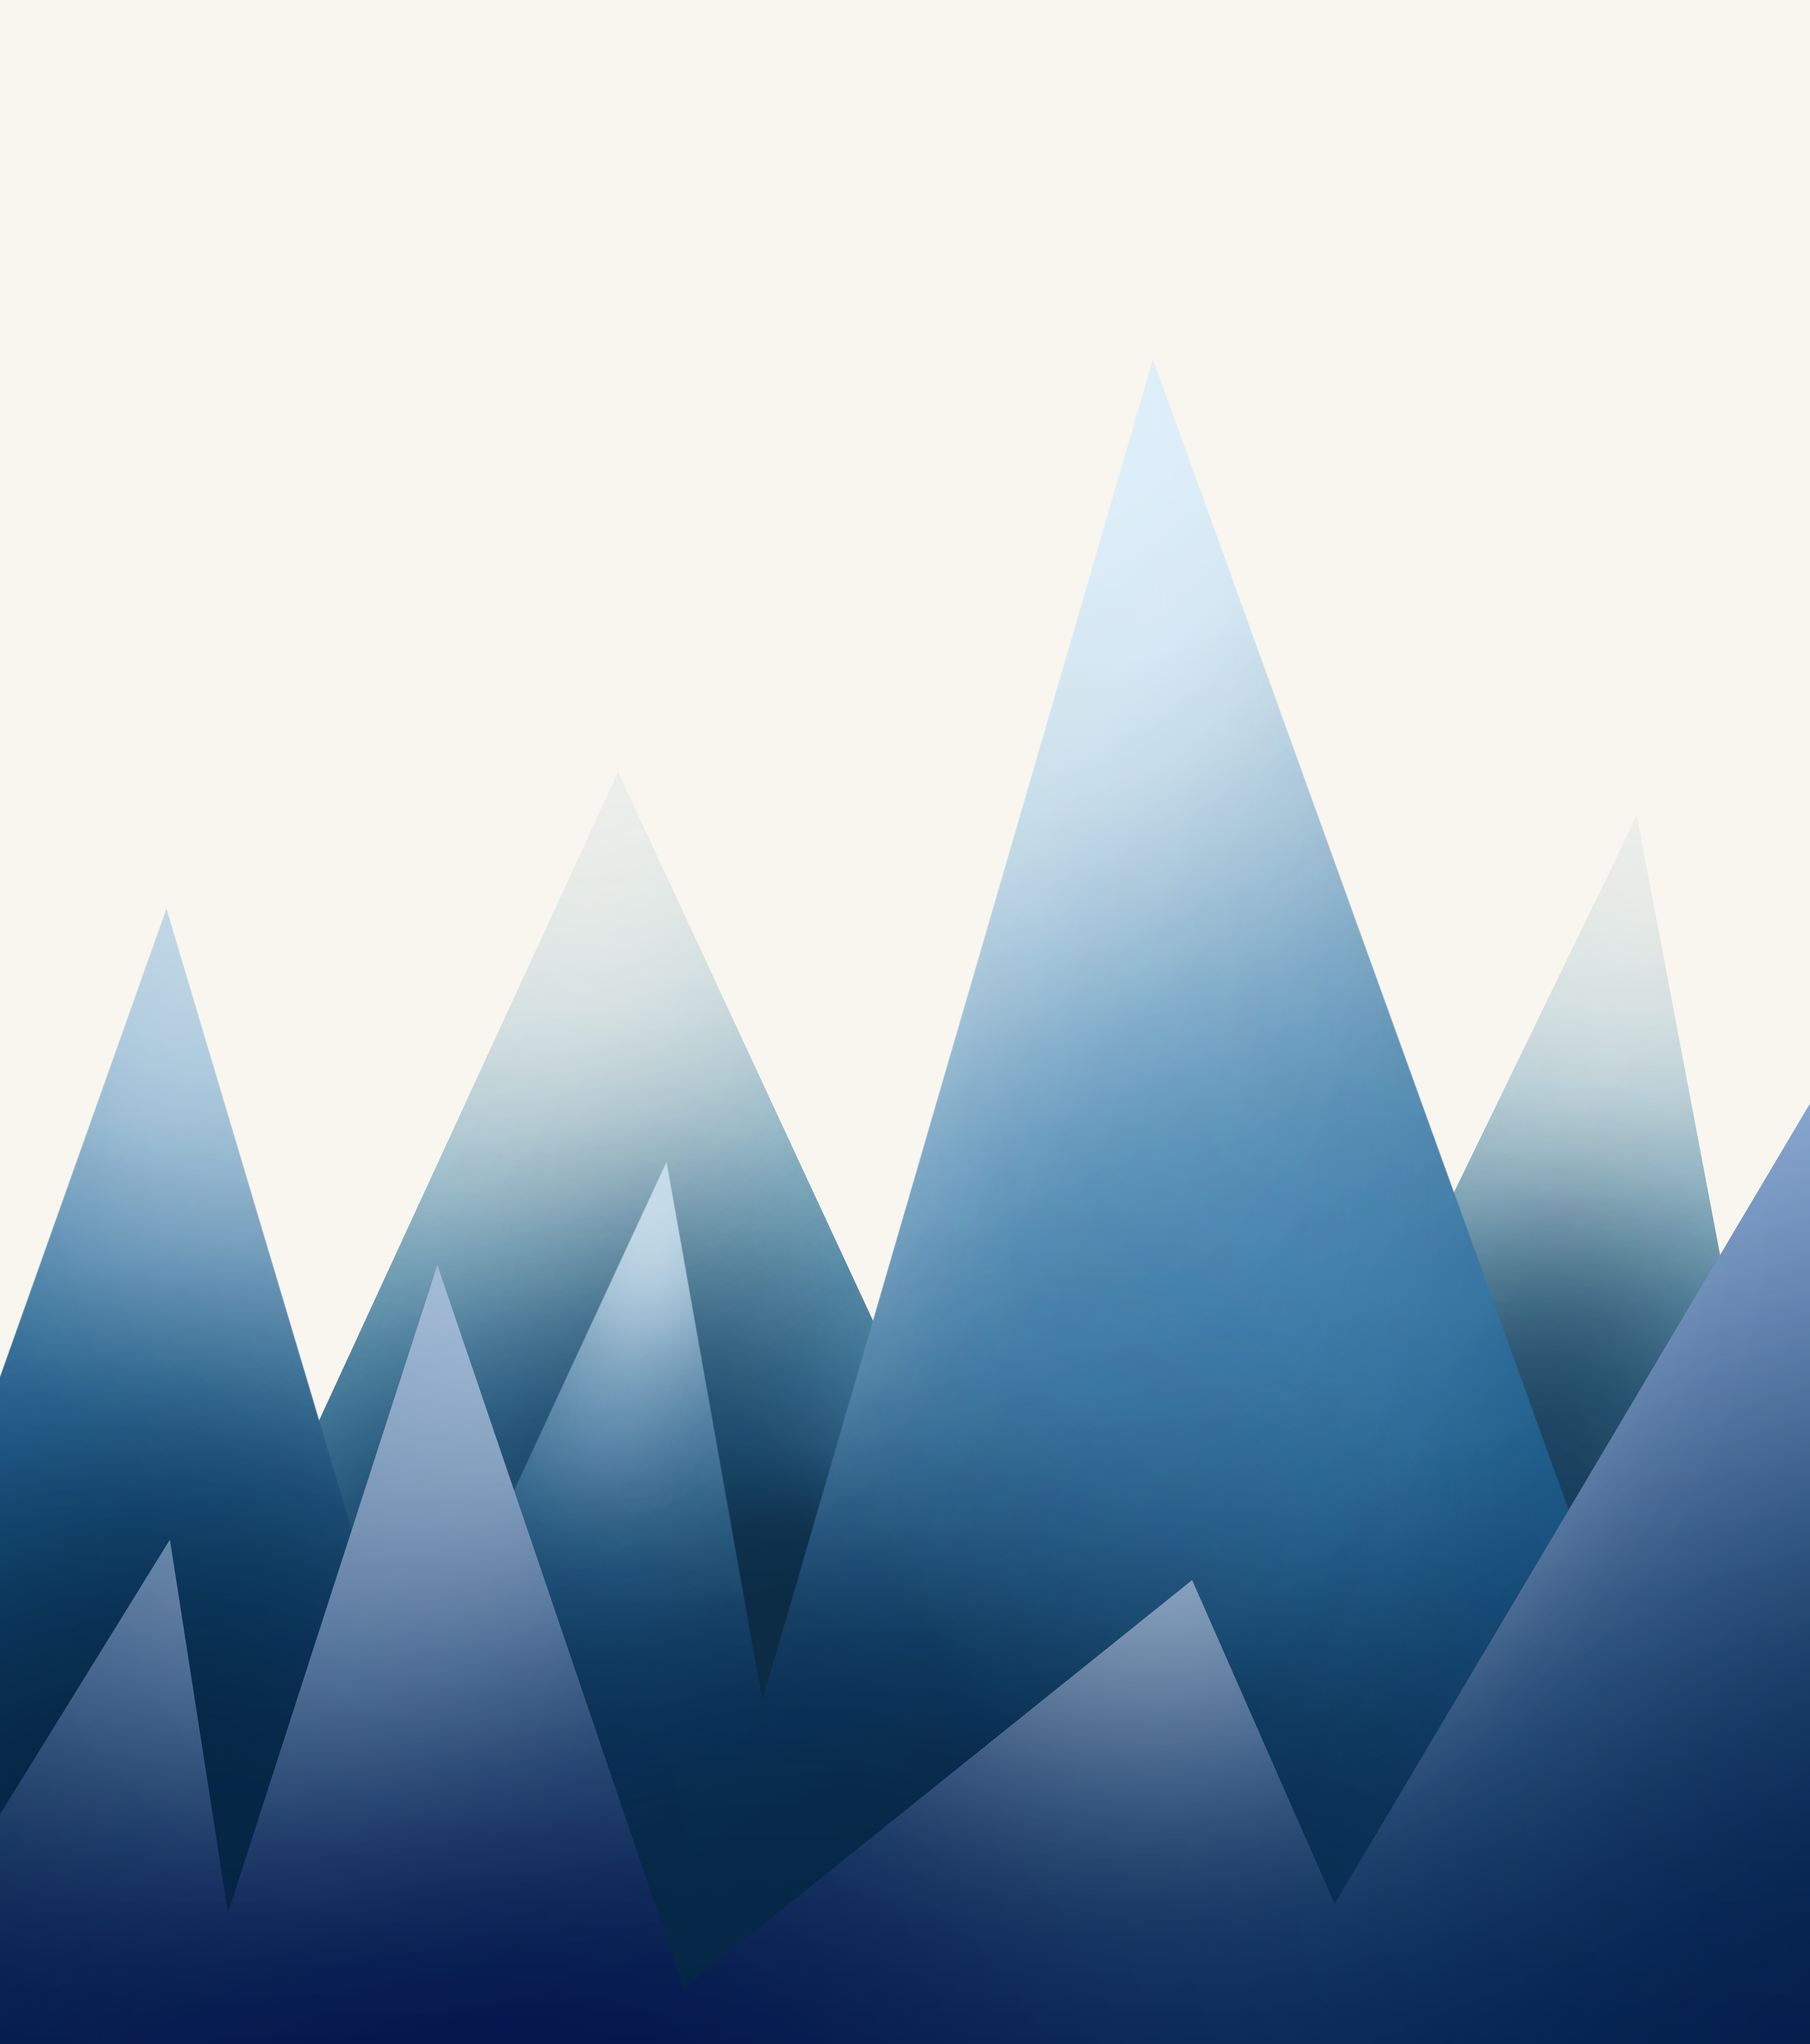
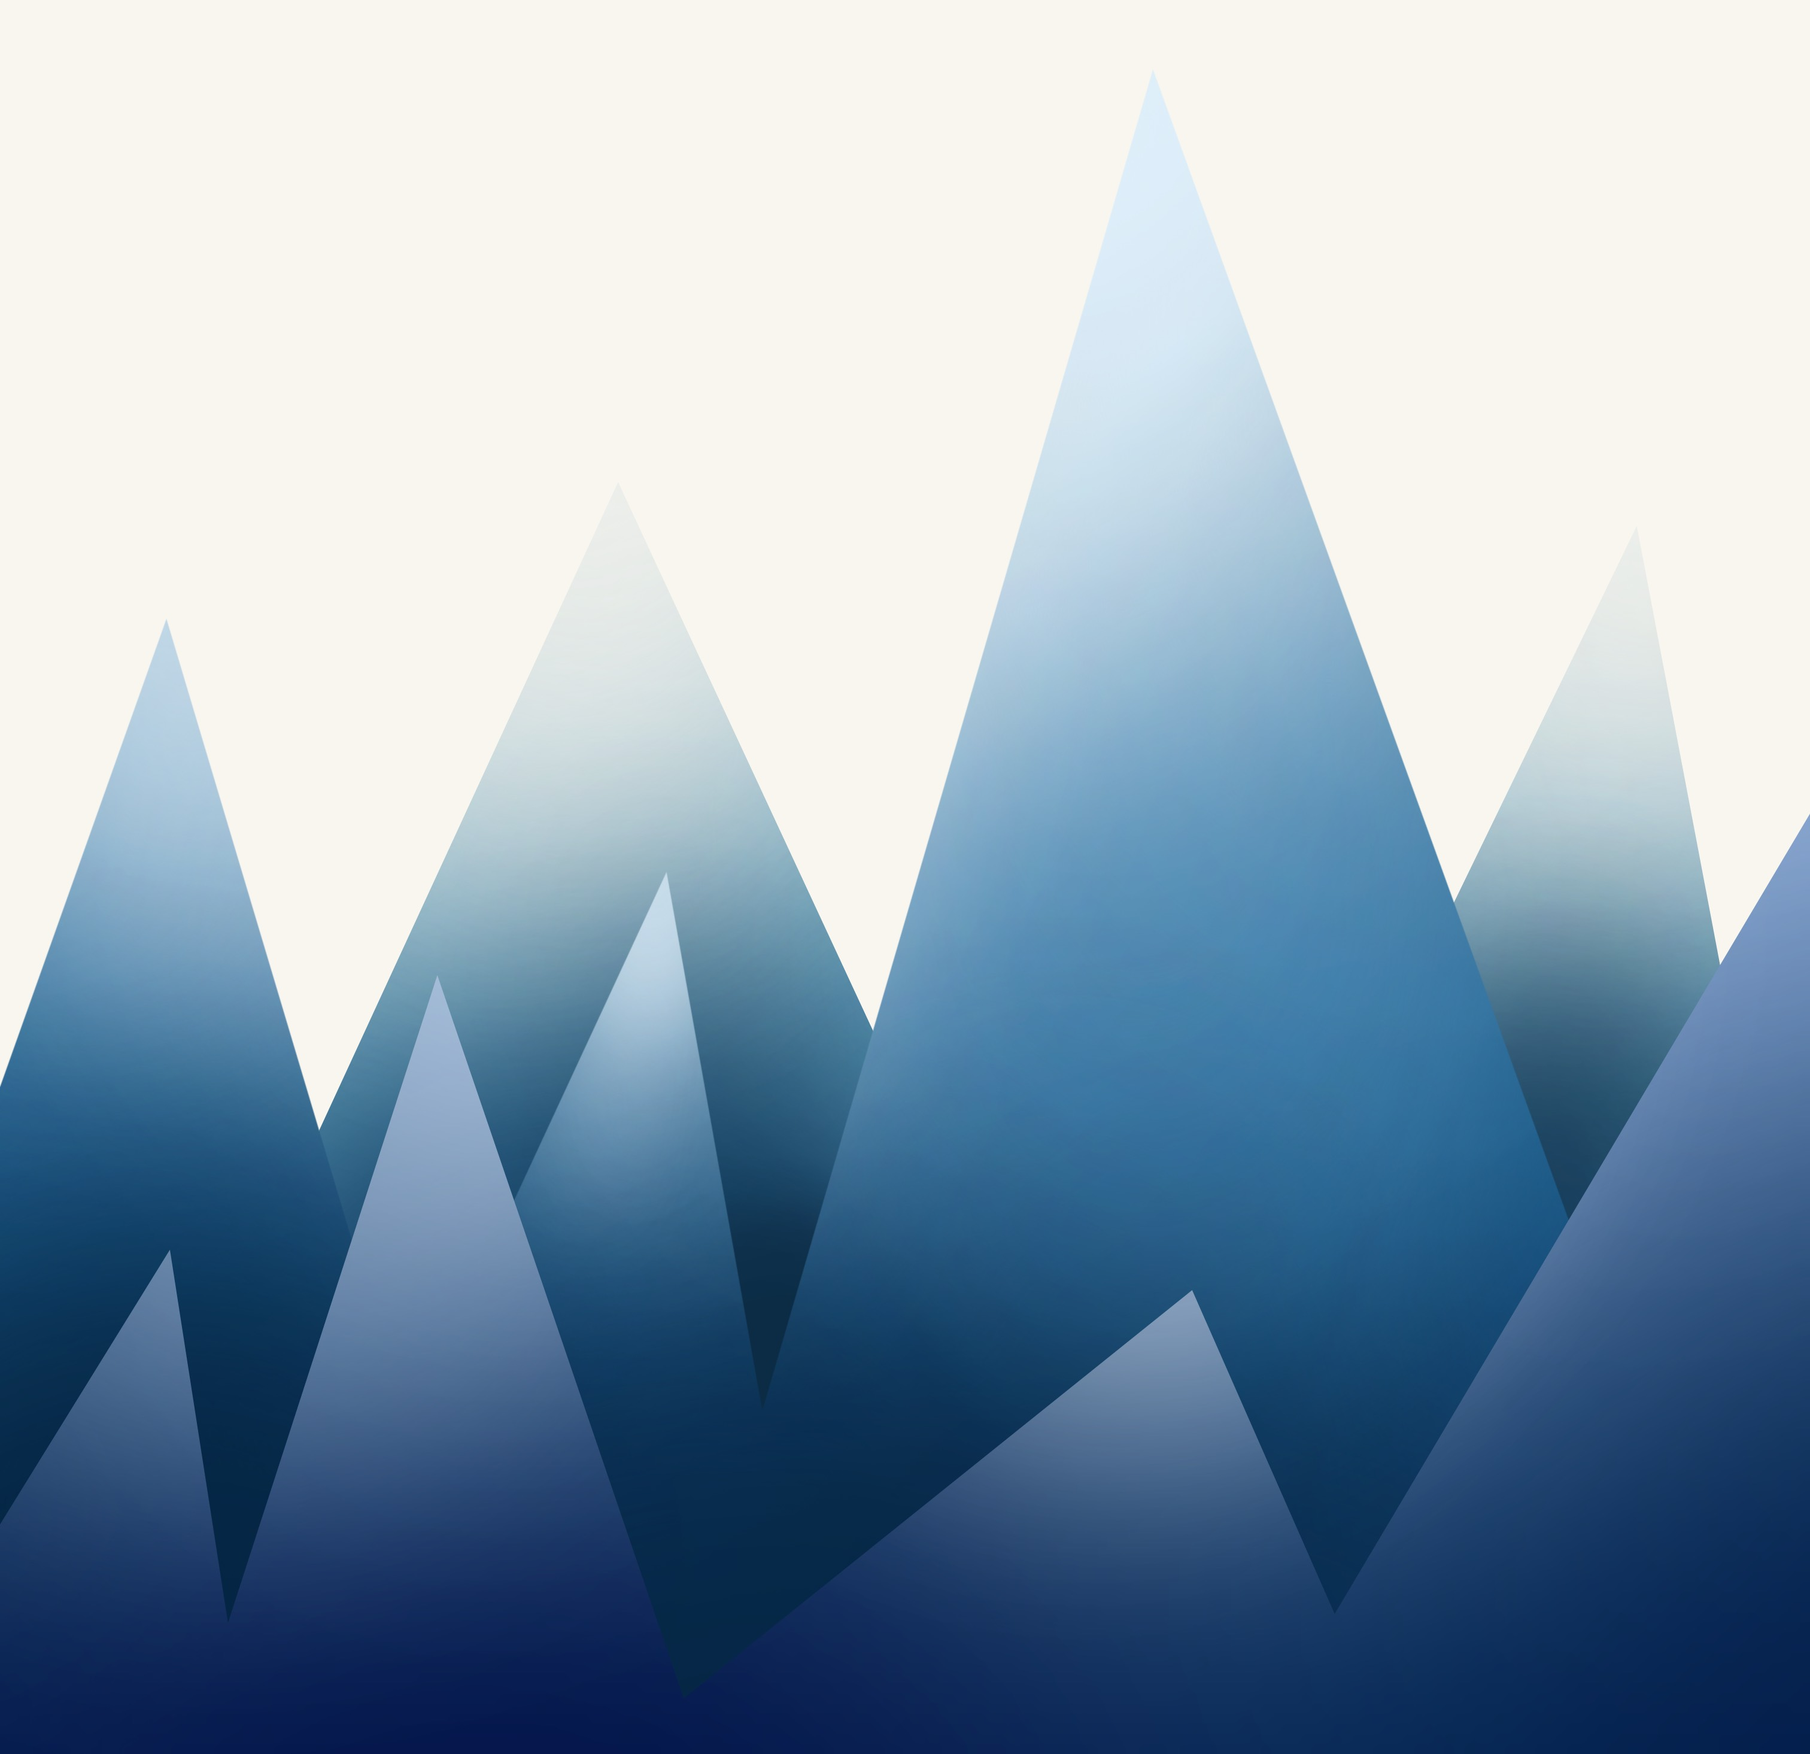
dkjb

diff --git a/sources.html b/sources.html
@@ -43,7 +43,7 @@
   </nav>
     <div id="topSection">
         <img id="topLogo" src="logo.png" alt="logo">
-        <h1 id="sourcesText">SOURCES</h1>
+        <h1 id="sourcesText">REFERENCE PAGE</h1>
     </div>
     
     <div id="mainContent">

diff --git a/homePage.css b/homePage.css
@@ -71,6 +71,11 @@ body, html{
     z-index: 1000000000;
     font-size: 3vw;
     opacity: 1;
+    font-weight: 800;
+}
+#slogan{
+    font-size: 2vw;
+    font-weight: 400;
 }
 #aboutUsSection{
     margin: 0;
